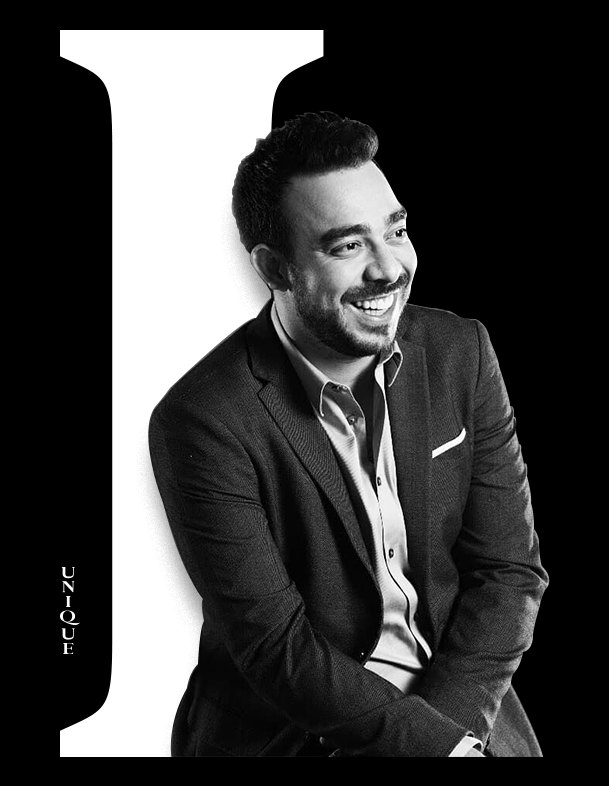
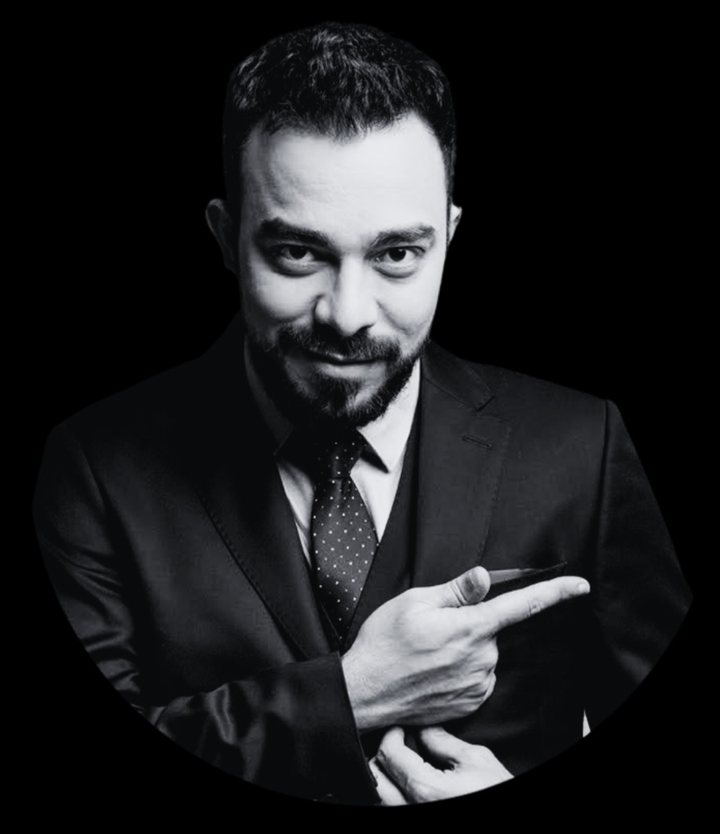
Nova foto do Carlos no site e no blog
Claude-Session: https://claude.ai/code/session_011rr8aN9szrJX4awieFBEpj

diff --git a/index.html b/index.html
@@ -264,7 +264,7 @@ section{padding-block:104px}
         <a class="btn" href="#metodo">Conhecer o método</a>
       </div>
     </div>
-    <figure><img src="/assets/carlos-hero.jpg" alt="Carlos Ribeiro, fundador da Unique, dentro do I da marca" width="600" height="810"></figure>
+    <figure><img src="/assets/carlos-hero.jpg" alt="Carlos Ribeiro, fundador da Unique" width="880" height="1020"></figure>
   </div>
   <div class="proof" aria-label="Empresas atendidas">
     <div class="marquee" aria-hidden="true"><span>Clínica Brasil</span><span>Multiodonto</span><span>Tendas Aluban</span><span>Global Química</span><span>Grupo Siqueira Gaipo</span><span>Casa Lis</span><span>IDO Odontologia</span><span>URBS</span><span>SuperBolla</span><span>Instituto Rogério Penna</span><span>Laboratório Alcântara</span><span>Holanda Empresarial</span><span>Clínica Brasil</span><span>Multiodonto</span><span>Tendas Aluban</span><span>Global Química</span><span>Grupo Siqueira Gaipo</span><span>Casa Lis</span><span>IDO Odontologia</span><span>URBS</span><span>SuperBolla</span><span>Instituto Rogério Penna</span><span>Laboratório Alcântara</span><span>Holanda Empresarial</span></div>

diff --git a/blog/index.html b/blog/index.html
@@ -287,7 +287,7 @@ button.btn.solid{background:var(--pill);color:var(--pill-fg)}
 
   function sobre(){
     var s=C.sobre||{};
-    return '<section class="about" id="sobre">'+(s.foto?'<img src="'+esc(s.foto)+'" alt="'+esc(s.nome||'')+'" width="609" height="786">':'<div class="cover" style="aspect-ratio:3/4"><div class="ph">'+MARK+'</div></div>')+
+    return '<section class="about" id="sobre">'+(s.foto?'<img src="'+esc(s.foto)+'" alt="'+esc(s.nome||'')+'" width="720" height="835">':'<div class="cover" style="aspect-ratio:3/4"><div class="ph">'+MARK+'</div></div>')+
       '<div><span class="tag">Quem escreve</span><h2>'+inline(s.titulo||'')+'</h2>'+String(s.texto||'').split(/\n\s*\n/).map(function(t){return '<p>'+inline(t.trim())+'</p>';}).join('')+'<div class="btns">'+
       (L.whatsapp?'<a class="btn solid" href="'+L.whatsapp+'" target="_blank" rel="noopener">Falar no WhatsApp</a>':'')+
       (L.instagram?'<a class="btn" href="'+L.instagram+'" target="_blank" rel="noopener">Instagram</a>':'')+'</div></div></section>';
